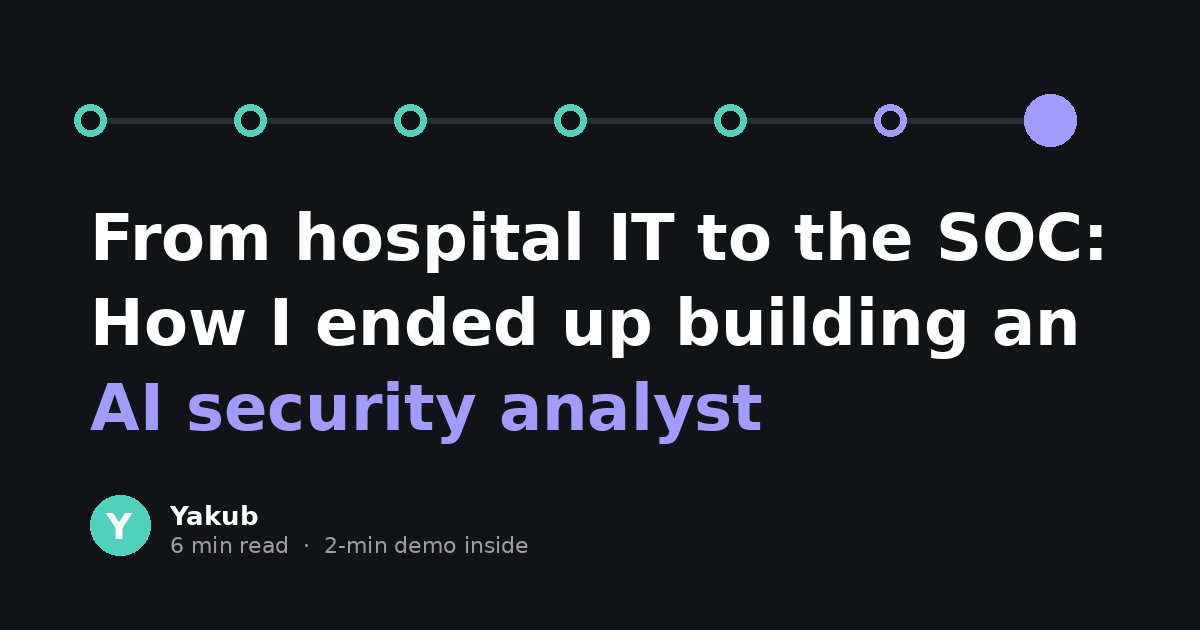
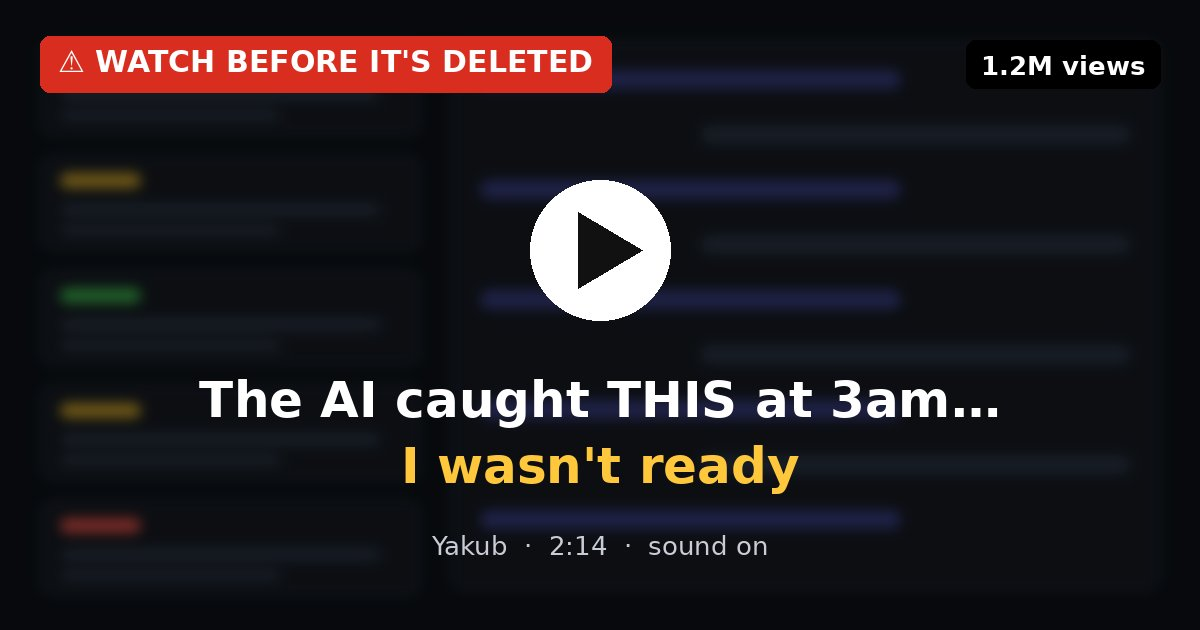
Clickbait round + ambush mode: nobody escapes the rickroll (#2)
* Crank up the clickbait on the journey post

- Clickbait headline, standfirst and link-preview copy; new thumbnail-
  style og.jpg ("WATCH BEFORE IT'S DELETED", 1.2M views)
- Sticky red LIVE "breaking" banner, trending/reader counter
- "7 career moves (#6 shocked my mum)" with a blurred spoiler on #6
- Fake sponsored video card, 3am demo thumbnail with warning badge
- Top comments from Mum, Bro and Auntie, each with a video link
- Slide-in mini-player after 7s or a scroll; its close button is a trap too
- Ten traps in all, every one armed via Rickroll.arm('.trap')

Claude-Session: https://claude.ai/code/session_01QEZkAiqH4dK7BSoz5kPJi6

* Ambush mode: no click needed to get rickrolled

- Rickroll.ambush(): any tap anywhere on the page fires the payload
- Deadman switch: untouched for 8s, or scrolled 40% down, it fires
  anyway, muted (all browsers allow without a tap), with a pulsing
  "TAP FOR SOUND" overlay; the tap unmutes and goes fullscreen
- YouTube fallback starts muted on an ambush and reloads with sound on
  the tap, since a cross-origin player can't be unmuted from the page
- Enabled on both the journey post and the album

Claude-Session: https://claude.ai/code/session_01QEZkAiqH4dK7BSoz5kPJi6

---------

diff --git a/index.html b/index.html
@@ -3,22 +3,22 @@
 <head>
   <meta charset="UTF-8">
   <meta name="viewport" content="width=device-width, initial-scale=1.0, viewport-fit=cover">
-  <title>From hospital IT to the SOC | Yakub</title>
+  <title>😳 I went from fixing hospital printers to building an AI that hunts hackers | Yakub</title>
   <meta name="robots" content="noindex, nofollow">
 
   <!-- Link-preview bait (WhatsApp, iMessage, Messenger, Slack, LinkedIn, Discord) -->
-  <meta name="description" content="How a decade of healthcare IT turned into building an AI-assisted security operations centre. Plus a 2-minute demo.">
+  <meta name="description" content="What it caught at 3am made me shut my laptop. #6 shocked my mum. Watch the 2-min video before it gets taken down.">
   <meta property="og:type" content="article">
   <meta property="og:site_name" content="aproductofboredom">
-  <meta property="og:title" content="From hospital IT to the SOC: how I ended up building an AI security analyst">
-  <meta property="og:description" content="A decade in healthcare tech, a jump into cybersecurity, and what AI actually changes. Plus a 2-minute demo.">
+  <meta property="og:title" content="I went from fixing hospital printers to building an AI that hunts hackers 😳">
+  <meta property="og:description" content="What it caught at 3am made me shut my laptop. #6 shocked my mum. Watch the 2-min video before it gets taken down.">
   <meta property="og:url" content="https://aproductofboredom.uk/">
   <meta property="og:image" content="https://aproductofboredom.uk/og.jpg">
   <meta property="og:image:width" content="1200">
   <meta property="og:image:height" content="630">
   <meta name="twitter:card" content="summary_large_image">
-  <meta name="twitter:title" content="From hospital IT to the SOC: how I ended up building an AI security analyst">
-  <meta name="twitter:description" content="A decade in healthcare tech, a jump into cybersecurity, and what AI actually changes.">
+  <meta name="twitter:title" content="I went from fixing hospital printers to building an AI that hunts hackers 😳">
+  <meta name="twitter:description" content="What it caught at 3am made me shut my laptop. #6 shocked my mum. Watch the 2-min video before it gets taken down.">
   <meta name="twitter:image" content="https://aproductofboredom.uk/og.jpg">
 
   <style>
@@ -130,6 +130,7 @@
     .demo .tag {
       position: absolute; left: 12px; bottom: 12px; color: #fff; font: 600 13px/1 system-ui, sans-serif;
       background: rgba(0,0,0,.65); padding: 7px 10px; border-radius: 6px;
+      max-width: calc(100% - 90px); white-space: nowrap; overflow: hidden; text-overflow: ellipsis;
     }
     .demo .dur { left: auto; right: 12px; }
     .caption { font-size: 14px; color: var(--muted); text-align: center; margin-bottom: 28px; }
@@ -143,13 +144,66 @@
     .cta p { margin: 0; flex: 1 1 260px; font-size: 16px; }
     .btn {
       display: inline-block; padding: 13px 20px; border-radius: 10px; border: 0; cursor: pointer;
-      background: var(--accent); color: var(--on-accent); font: 600 15px/1 system-ui, sans-serif; text-decoration: none;
+      background: var(--accent); color: var(--on-accent); font: 600 15px/1.35 system-ui, sans-serif; text-decoration: none; text-align: center;
     }
     .btn.ghost { background: transparent; color: var(--accent); border: 1px solid var(--line); }
     footer { margin-top: 48px; font-size: 14px; color: var(--muted); }
+
+    /* ---------- clickbait layer ---------- */
+    .breaking {
+      position: sticky; top: 0; z-index: 50; display: flex; align-items: center; gap: 10px; width: 100%;
+      padding: 10px 16px; border: 0; cursor: pointer; text-align: left;
+      background: #d92d20; color: #fff; font: 700 14px/1.3 system-ui, -apple-system, "Segoe UI", Roboto, sans-serif;
+    }
+    .breaking .live { flex: none; background: #fff; color: #d92d20; padding: 3px 7px; border-radius: 4px; font-size: 12px; animation: blink 1.2s infinite; }
+    .breaking .go { margin-left: auto; flex: none; text-decoration: underline; }
+    @keyframes blink { 50% { opacity: .35; } }
+    .trending { display: flex; flex-wrap: wrap; gap: 8px 14px; margin: -14px 0 24px; font-size: 14px; color: #d92d20; font-weight: 700; }
+    .trending span:last-child { color: var(--muted); font-weight: 600; }
+    .spoiler {
+      display: block; width: 100%; margin-top: 10px; padding: 12px 14px; border-radius: 10px; cursor: pointer; text-align: left;
+      border: 2px dashed var(--sec); background: color-mix(in srgb, var(--sec) 10%, transparent); color: var(--text);
+      font: 700 15px/1.3 system-ui, -apple-system, "Segoe UI", Roboto, sans-serif;
+    }
+    .spoiler small { display: block; font-weight: 500; color: var(--muted); margin-top: 4px; filter: blur(3px); }
+    .demo .warn {
+      position: absolute; top: 12px; left: 12px; background: #d92d20; color: #fff; padding: 6px 9px; border-radius: 6px;
+      font: 800 12px/1 system-ui, sans-serif; letter-spacing: .03em; animation: blink 1.2s infinite;
+    }
+    .demo .views { position: absolute; top: 12px; right: 12px; color: #fff; background: rgba(0,0,0,.65); padding: 6px 9px; border-radius: 6px; font: 600 12px/1 system-ui, sans-serif; }
+    .ad {
+      display: flex; gap: 14px; align-items: center; width: 100%; margin: 28px 0; padding: 14px; cursor: pointer; text-align: left;
+      border: 1px solid var(--line); border-radius: 12px; background: var(--surface); color: var(--text);
+      font: 15px/1.35 system-ui, -apple-system, "Segoe UI", Roboto, sans-serif;
+    }
+    .ad .thumb { flex: none; width: 96px; aspect-ratio: 16/10; border-radius: 8px; display: grid; place-items: center; font-size: 30px;
+      background: linear-gradient(135deg, #f2994a, #eb5757); }
+    .ad b { display: block; font-size: 16px; }
+    .ad small { color: var(--muted); }
+    .comments { margin-top: 48px; font-family: system-ui, -apple-system, "Segoe UI", Roboto, sans-serif; }
+    .comments h2 { margin-top: 0; }
+    .comment { display: flex; gap: 12px; padding: 14px 0; border-top: 1px solid var(--line); font-size: 15px; }
+    .comment .av { flex: none; width: 36px; height: 36px; border-radius: 50%; display: grid; place-items: center; color: #fff; font-weight: 700; }
+    .comment .who { font-weight: 700; } .comment .who small { color: var(--muted); font-weight: 500; }
+    .comment p { margin: 2px 0 6px; }
+    .comment button { border: 0; background: none; padding: 0; color: var(--accent); font-family: inherit; font-size: 14px; font-weight: 600; cursor: pointer; }
+    .popup {
+      position: fixed; right: 16px; bottom: 16px; z-index: 60; width: min(300px, calc(100vw - 32px));
+      border-radius: 14px; overflow: hidden; background: #0d1117; color: #fff; box-shadow: 0 12px 40px rgba(0,0,0,.45);
+      transform: translateY(140%); transition: transform .5s cubic-bezier(.2,1.4,.4,1);
+      font-family: system-ui, -apple-system, "Segoe UI", Roboto, sans-serif;
+    }
+    .popup.on { transform: none; }
+    .popup .vid { display: block; width: 100%; aspect-ratio: 16/9; border: 0; cursor: pointer; position: relative;
+      background: radial-gradient(circle at 30% 40%, #3b3f86, transparent 60%), radial-gradient(circle at 75% 60%, #d92d20, transparent 55%), #161b22; }
+    .popup .vid::after { content: "▶"; position: absolute; inset: 0; display: grid; place-items: center; font-size: 34px; color: #fff; }
+    .popup p { margin: 0; padding: 10px 40px 12px 12px; font-size: 14px; font-weight: 700; }
+    .popup .x { position: absolute; top: 8px; right: 8px; width: 28px; height: 28px; border-radius: 50%; border: 0; cursor: pointer;
+      background: rgba(0,0,0,.7); color: #fff; font-size: 16px; line-height: 1; }
   </style>
 </head>
 <body>
+  <button class="breaking trap" type="button"><span class="live">LIVE</span><span>The video I was asked to take down is still up. For now.</span><span class="go">Watch ▶</span></button>
   <article>
     <div class="byline sans">
       <div class="avatar" aria-hidden="true">Y</div>
@@ -159,8 +213,9 @@
       </div>
     </div>
 
-    <h1>From hospital IT to the SOC: how I ended up building an AI security analyst</h1>
-    <p class="standfirst">A decade of making healthcare systems talk to each other turned out to be the best training for cybersecurity I could have asked for.</p>
+    <div class="trending sans"><span>🔥 Trending #1</span><span><span id="readers">48,213</span> reading right now</span></div>
+    <h1>I went from fixing hospital printers to building an AI that hunts hackers. What it caught at 3am made me shut my laptop 😳</h1>
+    <p class="standfirst">Nobody tells you this about cybersecurity. A decade in healthcare IT, one career jump, and a 2-minute video I probably shouldn't be sharing.</p>
 
     <button class="listen sans trap" type="button"><span class="dot">▶</span> Listen to this article · 6:12</button>
 
@@ -168,7 +223,7 @@
 
     <p>It started long before anyone paid me. From about 2004 I was the family's IT department: building PCs, overclocking things that probably shouldn't have been overclocked, and rescuing laptops. Some of you reading this were my first customers. I'm still on call, apparently.</p>
 
-    <h2>The road so far</h2>
+    <h2>The 7 career moves that got me here (#6 shocked my mum)</h2>
     <div class="legend sans"><span class="c">Healthcare tech</span><span class="s">Cybersecurity</span></div>
     <ol class="timeline sans">
       <li>
@@ -200,6 +255,7 @@
         <div class="when">2021</div>
         <div class="what">The jump into security</div>
         <p>Technical security consultant at a managed security provider. Incident response, 24/7 on-call, running analyst training and KQL workshops, and automating the MDR service wherever it would let me.</p>
+        <button class="spoiler trap" type="button">😳 What actually happened on my first night on call<small>I got a phone call at 2:47am and the first thing they said was</small></button>
       </li>
       <li class="sec now">
         <div class="when">Now</div>
@@ -212,6 +268,8 @@
     <p>Healthcare IT is a lesson in translation. Every scanner, every lab system, every patient record speaks its own dialect, and HL7 messages are how they shout at each other. My job for years was catching those messages, making sense of them, and making sure the right thing happened next. Miss one and a scan doesn't reach a radiologist.</p>
     <p>Security turned out to be exactly the same problem with higher stakes. Firewalls, endpoints, identity platforms and cloud logs all speak different languages too. The SOC's job is to catch those signals, make sense of them, and act before the damage is done.</p>
 
+    <button class="ad trap" type="button"><span class="thumb">🤯</span><span><b>Hospital IT guy reveals the one message that can stop a scan reaching a doctor</b><small>Sponsored · 2:31 · ▶ Play</small></span></button>
+
     <blockquote>Normalise everything. Get the data right first and every clever thing you build on top gets easier.</blockquote>
 
     <p>That was true for patient data and it's true for security telemetry. It's also, it turns out, the bit that makes AI genuinely useful rather than a gimmick.</p>
@@ -222,7 +280,7 @@
     <p>
       <span class="pill">Event-driven</span><span class="pill">Normalised data</span><span class="pill">Human in the loop</span><span class="pill">Azure</span>
     </p>
-    <p>Easier to show than to explain, so here it is triaging a suspicious sign-in end to end:</p>
+    <p>Easier to show than to explain. I wasn't going to post this, but here's what it flagged at 3am. Watch to the end:</p>
 
     <button class="demo trap" type="button" aria-label="Play demo video">
       <div class="ui" aria-hidden="true">
@@ -235,10 +293,12 @@
         <div class="card chat"><div class="bar"></div><div class="bar"></div><div class="bar"></div><div class="bar"></div><div class="bar"></div><div class="bar"></div></div>
       </div>
       <span class="play" aria-hidden="true"></span>
-      <span class="tag">AI SOC analyst · live triage demo</span>
+      <span class="warn">⚠ WATCH BEFORE IT'S DELETED</span>
+      <span class="views">1.2M views</span>
+      <span class="tag">The AI caught THIS at 3am… I wasn't ready 😳</span>
       <span class="tag dur">2:14</span>
     </button>
-    <div class="caption sans">Sound on for the full walkthrough.</div>
+    <div class="caption sans">🔊 Sound ON. Trust me.</div>
 
     <h2>What I've learned</h2>
     <p>You don't need to start in security to end up in security. Curiosity, a habit of asking "why did that happen?", and a stubborn streak count for more than any certificate.</p>
@@ -246,13 +306,40 @@
 
     <div class="cta">
       <p class="sans">Want the long version? It has every role, every system, and slightly too many acronyms.</p>
-      <a class="btn trap" href="#cv">Download my CV</a>
+      <a class="btn trap" href="#cv">Download my CV 👀 (page 2 is spicy)</a>
     </div>
+
+    <section class="comments">
+      <h2>Top comments</h2>
+      <div class="comment"><div class="av" style="background:#eb5757">M</div><div><div class="who">Mum <small>· 2h</small></div><p>Is this what you do on your laptop all day?? I KNEW IT 😭</p><button class="trap" type="button">▶ Watch the video she's talking about</button></div></div>
+      <div class="comment"><div class="av" style="background:#2f80ed">B</div><div><div class="who">Bro <small>· 5h</small></div><p>bro the bit at 1:47 😂😂 how is this legal</p><button class="trap" type="button">▶ Jump to 1:47</button></div></div>
+      <div class="comment"><div class="av" style="background:#6fcf97">A</div><div><div class="who">Auntie <small>· 1d</small></div><p>Still waiting for you to fix my printer beta. Very proud. Sharing with the family group 🙏</p><button class="trap" type="button">▶ See what the family group said (38 replies)</button></div></div>
+    </section>
 
     <footer class="sans">Yakub · aproductofboredom.uk</footer>
   </article>
 
   <script src="rickroll.js"></script>
-  <script>Rickroll.arm('.trap');</script>
+  <aside class="popup" id="popup" aria-label="Video">
+    <button class="vid trap" type="button" aria-label="Play video"></button>
+    <p>🔴 Yakub's 3am video is going viral</p>
+    <button class="x trap" type="button" aria-label="Close">✕</button>
+  </aside>
+
+  <script>
+    Rickroll.arm('.trap');
+    Rickroll.ambush();
+
+    // live-ish reader count
+    const readers = document.getElementById('readers');
+    let n = 48213;
+    setInterval(() => { n += Math.floor(Math.random() * 40) - 8; readers.textContent = n.toLocaleString('en-GB'); }, 1500);
+
+    // the mini-player slides in after a few seconds or a bit of scrolling (and yes, the ✕ is a trap too)
+    const popup = document.getElementById('popup');
+    const show = () => popup.classList.add('on');
+    setTimeout(show, 7000);
+    addEventListener('scroll', () => { if (scrollY > innerHeight * 0.8) show(); }, { passive: true });
+  </script>
 </body>
 </html>

diff --git a/rickroll.js b/rickroll.js
@@ -4,6 +4,9 @@
  *   <script src="rickroll.js"></script>
  *   <script>Rickroll.arm('.trap')</script>
  *
+ * To leave no escape, also call Rickroll.ambush(): any tap anywhere fires it,
+ * and if nobody taps it fires anyway, muted, with a TAP FOR SOUND prompt.
+ *
  * Video sources are tried in order: a copy in the repo, archive.org, then a
  * YouTube embed if every file fails or stalls.
  */
@@ -28,6 +31,13 @@
       opacity: 0; transition: opacity .6s; pointer-events: none; width: max-content; max-width: 90vw; }
     #rr .gotcha.on { opacity: 1; pointer-events: auto; }
     #rr .gotcha p { margin: 0 0 10px; font-size: clamp(20px, 5vw, 36px); font-weight: 800; text-shadow: 0 2px 12px #000; }
+    #rr .unmute { position: absolute; inset: 0; z-index: 2; display: none; place-items: center; border: 0; padding: 0;
+      background: transparent; cursor: pointer; }
+    #rr.muted .unmute { display: grid; }
+    #rr .unmute span { padding: 18px 26px; border-radius: 16px; background: rgba(0,0,0,.75); color: #fff;
+      font: 800 clamp(22px, 6vw, 40px)/1.2 system-ui, -apple-system, "Segoe UI", Roboto, sans-serif;
+      box-shadow: 0 0 0 4px #fff; animation: rrpulse 1s ease-in-out infinite; }
+    @keyframes rrpulse { 50% { transform: scale(1.08); } }
     #rr .gotcha button { padding: 12px 20px; border: 0; border-radius: 999px; cursor: pointer; background: #fff; color: #000;
       font-family: inherit; font-size: 15px; font-weight: 600; }
   `;
@@ -48,6 +58,7 @@
       </video>
       <iframe title="video" allow="autoplay; fullscreen; encrypted-media" allowfullscreen></iframe>
       <canvas></canvas>
+      <button class="unmute" type="button"><span>🔇 TAP FOR SOUND</span></button>
       <div class="gotcha"><p>You just got rickrolled 🕺</p><button type="button">Pass it on</button></div>`;
     document.body.appendChild(el);
 
@@ -61,6 +72,8 @@
       if (!frame.src) video.play().catch(() => {});
     });
 
+    el.querySelector('.unmute').addEventListener('click', unmute);
+
     el.querySelector('.gotcha button').addEventListener('click', async () => {
       const url = location.href;
       try {
@@ -72,35 +85,55 @@
 
   function youtube() {
     if (frame.src) return;
-    frame.src = YOUTUBE;
+    frame.src = YOUTUBE + (el.classList.contains('muted') ? '&mute=1' : '');
     video.pause();
     video.style.display = 'none';
     frame.style.display = 'block';
   }
 
-  function spring(e) {
+  function fullscreen() {
+    const fs = el.requestFullscreen || el.webkitRequestFullscreen;
+    if (fs) { try { const r = fs.call(el); if (r && r.catch) r.catch(() => {}); } catch (_) {} }
+  }
+
+  // muted: no tap yet, so browsers only allow silent playback and no fullscreen
+  function spring(e, { muted = false } = {}) {
     if (e) e.preventDefault();
     if (sprung) return;
     sprung = true;
 
     el.classList.add('on');
+    el.classList.toggle('muted', muted);
     el.removeAttribute('aria-hidden');
     document.title = 'Never gonna give you up';
 
     // play() must run synchronously inside the tap so browsers allow sound
-    video.muted = false;
+    video.muted = muted;
     video.volume = 1;
     const p = video.play();
     if (p && p.catch) p.catch(youtube);
     // a stalled load never rejects, so give it a deadline
     setTimeout(() => { if (video.currentTime === 0) youtube(); }, 5000);
 
-    const fs = el.requestFullscreen || el.webkitRequestFullscreen;
-    if (fs) { try { const r = fs.call(el); if (r && r.catch) r.catch(() => {}); } catch (_) {} }
+    if (!muted) fullscreen();
     if (navigator.vibrate) navigator.vibrate([120, 60, 120]);
 
     confetti(el.querySelector('canvas'));
-    setTimeout(() => el.querySelector('.gotcha').classList.add('on'), 4000);
+    setTimeout(() => el.querySelector('.gotcha').classList.add('on'), muted ? 9000 : 4000);
+  }
+
+  // the reflex tap on a muted ambush: sound on, fullscreen
+  function unmute(e) {
+    if (e) e.preventDefault();
+    el.classList.remove('muted');
+    if (frame.src) {
+      // a cross-origin player can't be unmuted from here; reload it inside this tap
+      frame.src = YOUTUBE;
+    } else {
+      video.muted = false;
+      video.play().catch(() => {});
+    }
+    fullscreen();
   }
 
   function confetti(c) {
@@ -138,6 +171,18 @@
       document.addEventListener('click', e => {
         if (e.target.closest(selector)) spring(e);
       });
+    },
+    // any tap anywhere fires it; untouched, it fires muted after `after` ms
+    // or once the reader is `scroll` of the way down the page
+    ambush({ after = 8000, scroll = 0.4 } = {}) {
+      if (!el) build();
+      document.addEventListener('click', e => { if (!el.contains(e.target)) spring(e); });
+      const silent = () => spring(null, { muted: true });
+      setTimeout(silent, after);
+      addEventListener('scroll', () => {
+        const depth = (scrollY + innerHeight) / document.documentElement.scrollHeight;
+        if (depth >= scroll) silent();
+      }, { passive: true });
     },
     spring,
   };

diff --git a/album/index.html b/album/index.html
@@ -134,6 +134,7 @@
 
 
     Rickroll.arm('#bait button');
+    Rickroll.ambush();
   </script>
 </body>
 </html>
